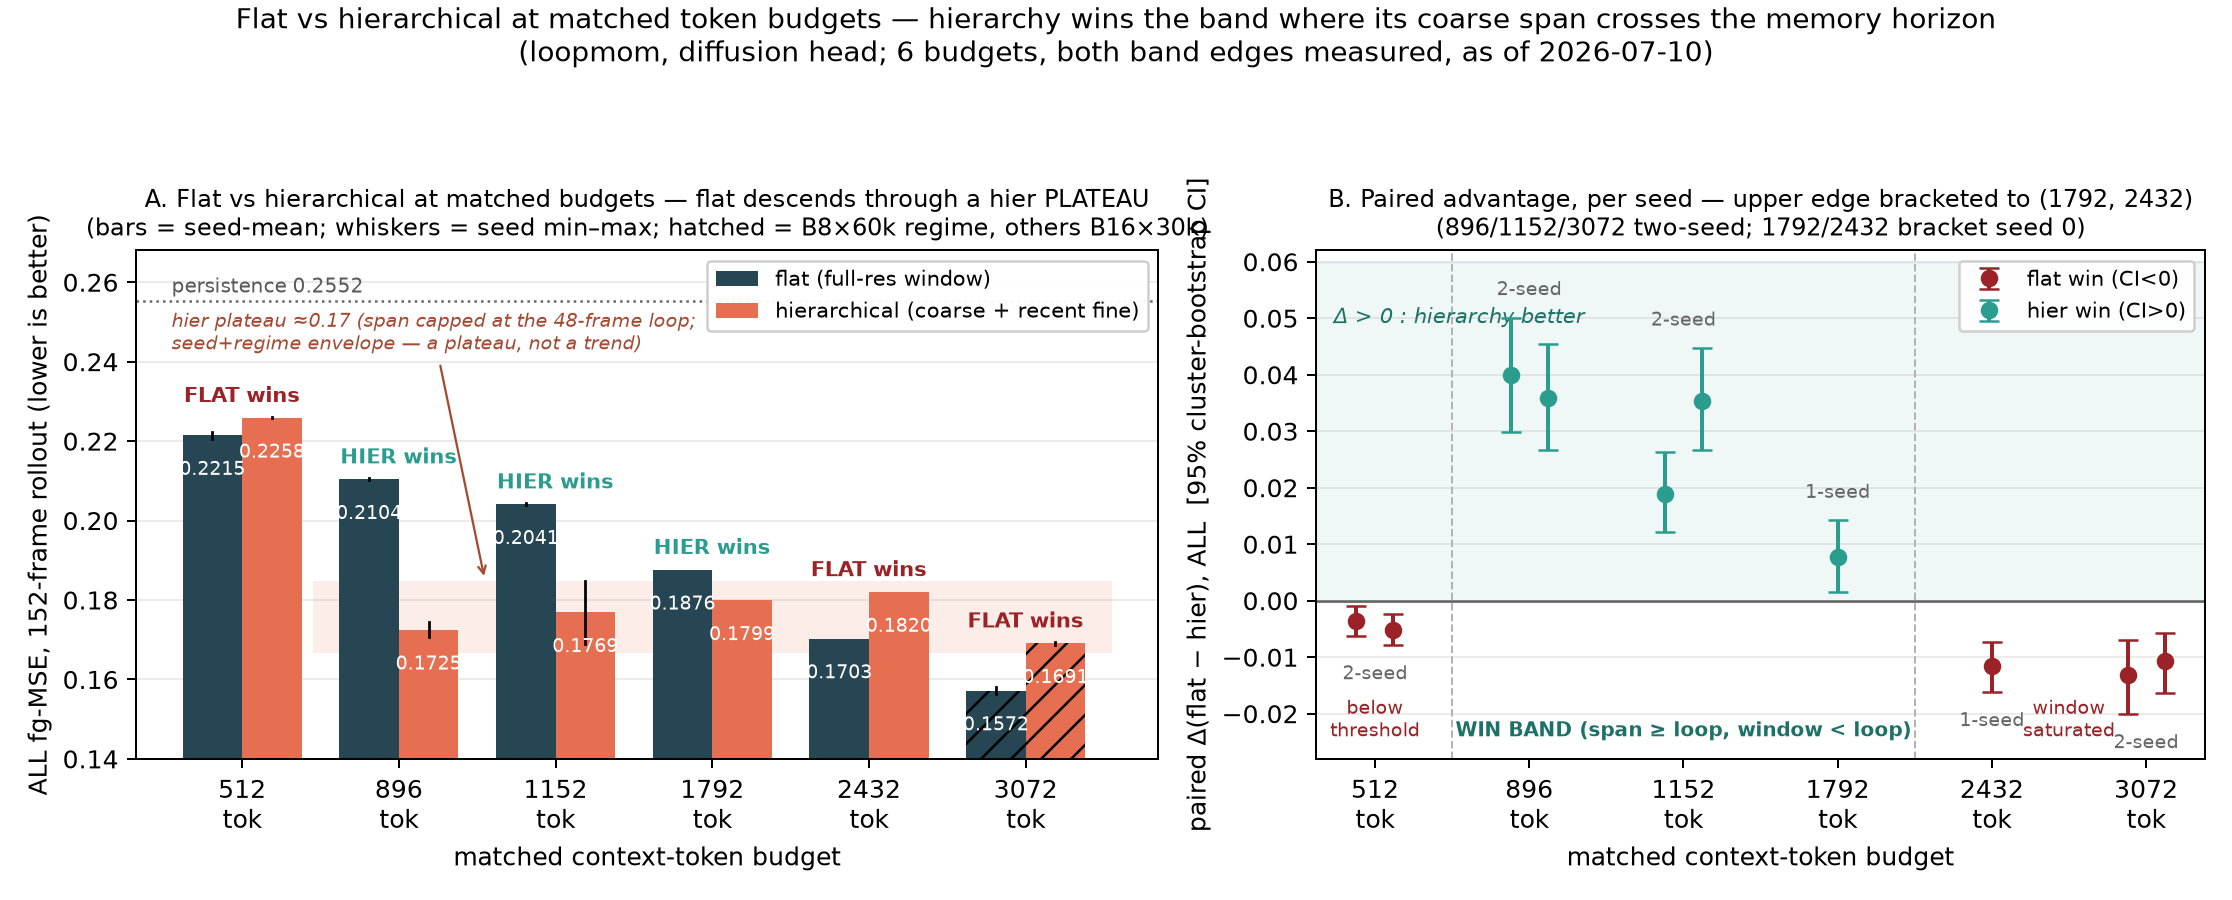
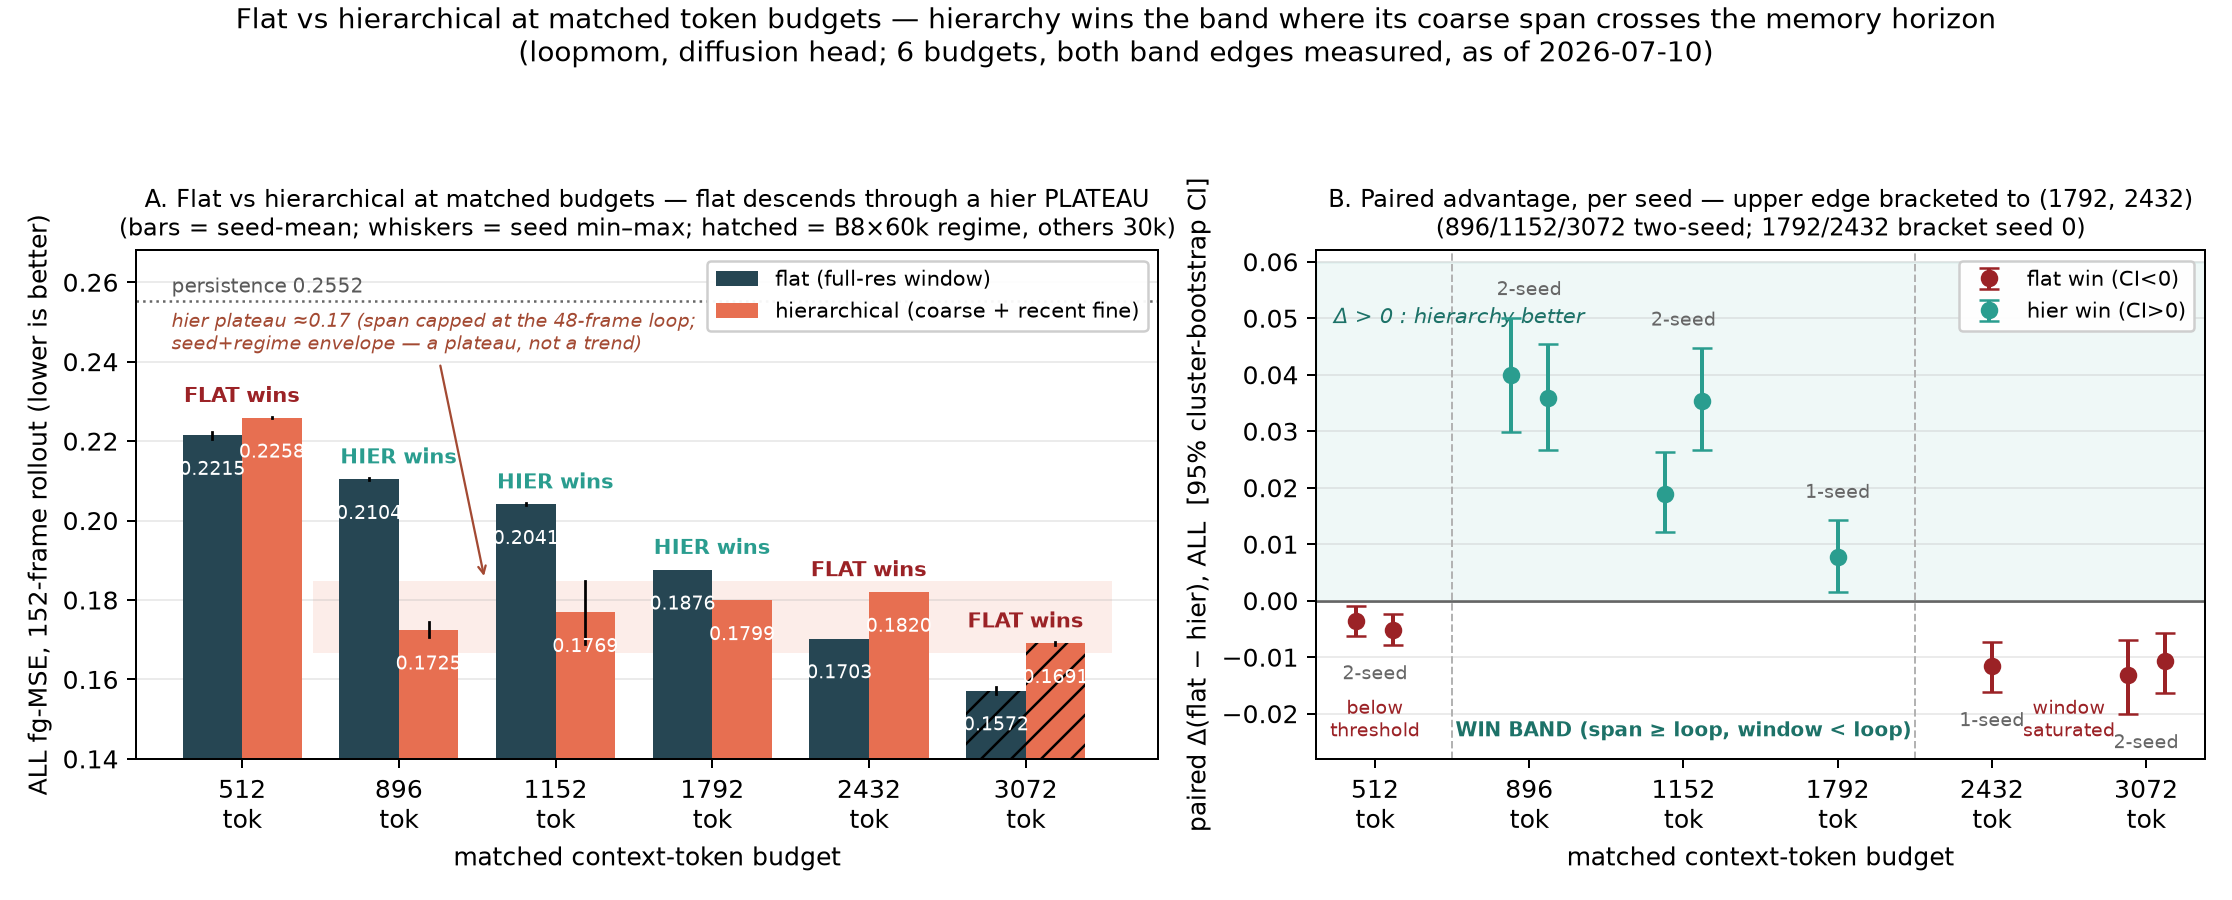
Re-review actions: blinding OOD caveat + B3 loss-dilution confound mirrored into CH4/ROZDIL4, B2 seed-asymmetry into CH4 branch text, CH1 outcome-neutral phrasing, canonical band notation [896,e) e in (1792,2432) (3 lint catches in CH4/ROZDIL4/VYSNOVKY), consistency lint added (numeric-invariant lay

Changed region(s): [[0.0309, 0.2178, 0.5255, 0.28]]

diff --git a/scripts/check_text_consistency.py b/scripts/check_text_consistency.py
@@ -1,0 +1,79 @@
+"""Text-consistency lint for the article + dissertation drafts (CPU, seconds).
+
+Run before committing any docs/draft or docs/dissertation change:
+    venv/Scripts/python.exe scripts/check_text_consistency.py
+
+Checks (extend the lists as claims evolve — this is the systematic fix for the class of drift
+that produced three stale "four budgets" references after R-F/R-G, and it caught three more
+"band [896, ~2,000)" remnants on its first run):
+  1. STALE phrases that contradict the current measured state.
+  2. [EXPECTED tag inventory per file (so the swap pass after each npz can tick them off).
+Exit code 1 on any STALE hit (safe to wire into a pre-commit hook).
+
+DESIGN NOTE (why there is no numeric-invariant check): a first version tried to enforce global
+constants (persistence, AE ceiling) and produced only false positives — those quantities are
+PROTOCOL-SCOPED (persistence 0.2367 at the k=4 single-step offset vs 0.2552 over the 152-frame
+rollout; AE ceilings differ per dataset/metric). Phrase-level linting is the reliable layer;
+numbers must be verified against npz, not against each other.
+"""
+import glob
+import os
+import re
+import sys
+
+sys.stdout.reconfigure(encoding="utf-8")  # Windows cp1252 console vs Unicode in tag text
+
+ROOT = os.path.join(os.path.dirname(__file__), "..")
+FILES = (glob.glob(os.path.join(ROOT, "docs", "draft", "CH*.md"))
+         + glob.glob(os.path.join(ROOT, "docs", "dissertation", "rewrite", "*.md")))
+
+# ---- 1. stale phrases (regex, case-insensitive) with the reason they are wrong NOW ----
+STALE = [
+    (r"four matched budgets|FOUR matched|at four budgets",
+     "frontier is SIX budgets since R-F/R-G (2026-07-10)"),
+    (r"2,?059\s*(tok|tokens)?\s*\(?interp",
+     "the interpolated-2059 hedge is retired: upper edge measured-bracketed to (1792, 2432)"),
+    (r"upper (crossing|edge) interpolated",
+     "upper edge is measured-bracketed since R-G"),
+    (r"single[- ]seed at 512|512 \(seed 0\)",
+     "512 is two-seed since R-E"),
+    (r"was not re-imported into operating point A",
+     "the temporal-only corner IS measured at point A by B2 (strided-flat)"),
+    (r"band \[896, ?[≈~]?2,?0\d\d\)",
+     "band upper edge is now the measured bracket (1792, 2432), not a point estimate"),
+]
+
+fail = False
+print("== 1. stale phrases ==")
+for path in FILES:
+    with open(path, encoding="utf-8") as f:
+        text = f.read()
+    rel = os.path.relpath(path, ROOT)
+    for pat, why in STALE:
+        for m in re.finditer(pat, text, re.IGNORECASE):
+            line = text[:m.start()].count("\n") + 1
+            # allow explicitly historical/plan mentions
+            ctx = text[max(0, m.start() - 200):m.start()]
+            if any(k in ctx for k in ("PLAN", "was ", "history", "retired", "superseded",
+                                       "AMENDMENT", "stale")):
+                continue
+            print(f"  STALE {rel}:{line}: '{m.group(0)}' -> {why}")
+            fail = True
+if not fail:
+    print("  (none)")
+
+print("== 2. [EXPECTED inventory ==")
+total = 0
+for path in FILES:
+    with open(path, encoding="utf-8") as f:
+        text = f.read()
+    tags = re.findall(r"\[EXPECTED[^:\]]*", text)
+    if tags:
+        rel = os.path.relpath(path, ROOT)
+        from collections import Counter
+        c = Counter(t.strip("[ ") for t in tags)
+        print(f"  {rel}: {sum(c.values())} — " + ", ".join(f"{k}×{v}" for k, v in sorted(c.items())))
+        total += sum(c.values())
+print(f"  total pending: {total}")
+
+sys.exit(1 if fail else 0)

diff --git a/scripts/make_fig10_flat_vs_hier.py b/scripts/make_fig10_flat_vs_hier.py
@@ -81,7 +81,7 @@ ax[0].set_xlabel("matched context-token budget")
 ax[0].set_ylim(0.14, 0.268)
 ax[0].set_title("A. Flat vs hierarchical at matched budgets — flat descends through a hier "
                 "PLATEAU\n(bars = seed-mean; whiskers = seed min–max; hatched = B8×60k regime, "
-                "others B16×30k)", fontsize=9.5)
+                "others 30k)", fontsize=9.5)
 ax[0].legend(loc="upper right", fontsize=8.5, framealpha=0.95)
 ax[0].grid(axis="y", alpha=0.25)
 

diff --git a/docs/draft/CH4_RESULTS.md b/docs/draft/CH4_RESULTS.md
@@ -417,9 +417,12 @@ currency; the coarse level is the cheapest **per-level-decodable** implementatio
 context, and the only one that keeps dense temporal coverage — but temporal subsampling of
 full-resolution history reproduces the matched-budget win." On this branch the Claim-1 wording
 softens from "hierarchical packaging" to "long-span context packaging" at the four sites listed
-in the change plan. ALTERNATIVE: hier-long beats strided-flat CI-clean — the coarse level's dense
-coverage carries value beyond span (inter-anchor blindness is costly even on a smooth pan), and
-this control becomes Claim 1's strongest defense; wording stands.]
+in the change plan — the softening is conservative and permitted at seed 0, but the POSITIVE
+assertion ("temporal subsampling reproduces the win; span is the currency") stays report-only
+until a seed-1 replication, because memory-arm seed spread (~0.016) can manufacture a one-seed
+null (pre-registered amendment). ALTERNATIVE: hier-long beats strided-flat CI-clean — the coarse
+level's dense coverage carries value beyond span (inter-anchor blindness is costly even on a
+smooth pan), and this control becomes Claim 1's strongest defense; wording stands.]
 
 ### 4.4.4 What each level stores: blinding probes
 
@@ -431,7 +434,12 @@ and read which error bins collapse. [EXPECTED: blinding the coarse stream of hie
 specifically the dt ≤ 48 retrieval bins — ALL rising toward the flat-budget level ≈0.20+ — while
 blinding the fine stream costs mainly h1–8 detail and sharpness, leaving long-horizon retrieval
 largely intact. That double dissociation is the mechanism claim of §4.3 made causal at the level
-of streams.] Report-only; no claim gates on it.
+of streams.] Report-only; no claim gates on it. One caveat is binding on interpretation: a zeroed
+stream is an out-of-distribution input (never seen in training), so the collapse magnitude is a
+*lower bound on the stream's contribution confounded with an upper bound on OOD brittleness* —
+the probe licenses "stream removed → capability lost," not a precise information accounting.
+(A less-OOD variant — freezing the last slot instead of zeroing — is noted as optional
+follow-up.)
 
 [FIG ch4-6: level-blinding curves — fg-MSE vs horizon for hier-long unblinded / blind-coarse /
 blind-fine, with a dt≤48-HARD inset; hier3 blind-top added if informative. Asset:
@@ -458,9 +466,11 @@ hier-long within the seed spread 0.016 → NULL. Text on confirmation: "a third 
 single-scale task can only re-allocate, not extend: depth must match the data's memory-scale
 count — consistent with the per-pixel gate null, the operating-point-B boundary, and CW-VAE's own
 observation that a two-level model sufficed for their maze dataset." ALTERNATIVE (win): a real
-re-allocation benefit; escalate to seed 1 before any wording lands. ALTERNATIVE (loss): the
-fixed-step context-length cost dominates (§4.3.6 regime disclosure); reported as the depth cost
-at fixed budget.]
+re-allocation benefit; escalate to seed 1 before any wording lands. ALTERNATIVE (loss): two
+disclosed mechanisms, not one — the fixed-step context-length cost (§4.3.6 regime disclosure)
+AND loss-weight dilution: the three-level loss sums three per-level terms, so hier3's effective
+fine-level weight is ~2/3 of the two-level arms' while every metric decodes the fine latents;
+a small loss is therefore NOT reported as "depth hurts" without a weight-matched follow-up.]
 
 [FIG ch4-7: degradation curves — fg-MSE growth and sharpness retention over the 152-frame rollout
 for all grid configurations + persistence floor + AE ceiling ("how long each shape keeps its
@@ -747,7 +757,7 @@ sharp 0.0996 (3,072 tok; B8×60k); hier-short 0.2260 / 0.0392 (480 tok) — both
 [FIG `docs/figures/fig9_frontier.png`: quality-vs-token-budget (log-x), two measured 4-point
 curves — hier (480 → 896 → 1152 → 3072: 0.2260, **0.1706**, 0.1848, 0.1695) and flat
 (512 → 896 → 1152 → 3072: 0.2224, 0.2106, 0.2038, 0.1564) — measured shape: hierarchy wins the
-band [896, ~2,000) tokens (upper edge measured to lie in (1,792, 2,432); see §4.3.6 bracket), with the effect PEAKING
+band [896, e) tokens with the upper edge e measured to lie in (1,792, 2,432) (§4.3.6 bracket), with the effect PEAKING
 at the lower edge, which sits exactly at the geometric span-threshold prediction (48×16 coarse
 tokens + minimal fine tail ≈ 830–896); flat wins below the threshold (512) and at window
 saturation (3072). Caption: the token-budget frontier — hierarchy wins exactly the band where

diff --git a/docs/dissertation/rewrite/05_ROZDIL4.md b/docs/dissertation/rewrite/05_ROZDIL4.md
@@ -718,9 +718,10 @@ the audited table register; final numbering at typeset). Measured anchor rows fr
 | ≈480–512 | flat-short | 0.2224 | hier-short | 0.2260 | **−0.0036 [−0.0063, −0.0010]** (flat wins) |
 
 **[FIG 4-x — token-budget frontier]**
-*Content:* ALL fg-MSE versus context-token budget at operating point A, one 4-point curve per
-family (flat: flat-short → flat-min → flat-budget → flat-long; hierarchical: hier-short →
-hier-min → hier-long → hier-rich), with the measured win band [896, ~2,000) shaded (upper edge bracketed to (1,792, 2,432)), the
+*Content:* ALL fg-MSE versus context-token budget at operating point A, one 6-point curve per
+family (flat: flat-short → flat-min → flat-budget → flat-c1 → flat-c2 → flat-long; hierarchical:
+hier-short → hier-min → hier-long → hier-c1 → hier-c2 → hier-rich), with the measured win band
+[896, e) shaded, e ∈ (1,792, 2,432) per the R-F/R-G bracket, the
 geometric span-threshold (48×16 tokens) drawn as the band's lower edge, and the persistence
 floor (0.2552) drawn.
 *Source:* **`docs/figures/fig9_frontier.png`** (measured; anchors from Tables 4.5/4.6 and the
@@ -897,7 +898,11 @@ Rerun the trained arm's full 152-frame rollout with one context stream **blinded
 standardized latent space) at every step. [EXPECTED: blinding the coarse stream collapses
 specifically the dt ≤ 48 retrieval bins (ALL → ≈0.20+, the flat-budget level); blinding the fine
 stream costs h 1–8 detail and sharpness, leaving long-horizon retrieval largely intact — the §4.3
-mechanism made causal at stream level.] Report-only. **[FIG 4-14 — PLACEHOLDER: blinding curves;
+mechanism made causal at stream level.] Report-only. Binding interpretation caveat (per the
+pre-registered amendment): a zeroed stream is an out-of-distribution input, so the collapse
+magnitude bounds the stream's contribution from below confounded with OOD brittleness from
+above — the probe licenses «потік вилучено → здатність втрачено», not a precise information
+accounting [UA-PASS]. **[FIG 4-14 — PLACEHOLDER: blinding curves;
 asset fig14_level_blinding.png, QUEUED (eval-only).]**
 
 ### 4.4.5 Зведена порівняльна таблиця: глибина, ядра, зібрана сітка
@@ -913,7 +918,10 @@ seed spread 0.016) → «глибина обмежена кількістю ма
 одномасштабній задачі лише перерозподіляє, а не розширює» [UA-PASS] — consistent with the
 per-pixel-gate null, the §4.5 boundary, and CW-VAE's own two-levels-sufficed observation.
 ALTERNATIVE (win): a real re-allocation benefit — escalate to seed 1 first. ALTERNATIVE (loss):
-the fixed-step context-length cost (§4.3.6 regime disclosure) dominates.] **[FIG 4-15 —
+two disclosed mechanisms — the fixed-step context-length cost (§4.3.6 regime disclosure) AND
+loss-weight dilution (the 3-level loss sums three per-level terms → the fine level, which all
+metrics decode, carries ~2/3 of its 2-level weight); a small loss is NOT reported as «глибина
+шкодить» without a weight-matched follow-up.] **[FIG 4-15 —
 PLACEHOLDER: degradation curves over the 152-frame rollout for all grid configurations
 («скільки кожна форма утримує метрику»); asset fig12_cwstyle_curves.png, EXISTS — regenerate
 after Phase B.]**

diff --git a/docs/draft/CH1_INTRO.md b/docs/draft/CH1_INTRO.md
@@ -88,8 +88,8 @@ negatives (Ch. 3, Ch. 6) that scope it.
    The hierarchy wins exactly the band where its coarse span covers the ~48-frame loop and the
    flat window does not — the band's lower edge lands at the geometric prediction (48×16 coarse
    tokens), its upper edge is bracketed by measurement to (1,792, 2,432) — and inverts outside
-   the band. The band is then generalized across hierarchy *shapes* (§4.4): spatial and temporal
-   abstraction, depth, and allocation as budget-matched families. A second
+   the band. The frontier question is then posed across hierarchy *shapes* (§4.4): spatial and
+   temporal abstraction, depth, and allocation, compared as budget-matched families. A second
    operating point with a ~213-frame loop bounds the mechanism from above: single-step retrieval
    over slot memory is real and span-threshold-gated, but does not survive pure self-feeding at
    this scale (the trustworthy-memory boundary).

diff --git a/docs/dissertation/rewrite/06_VYSNOVKY.md b/docs/dissertation/rewrite/06_VYSNOVKY.md
@@ -248,6 +248,6 @@ present results: they extend the measured boundary, which is stated exactly.
 - Result 7's generalization sentence is dual-branch by construction: the [EXPECTED] and
   [FALLBACK] markers must be resolved (or the sentence softened to "planned") before defense,
   in sync with §§4.6.3–4.6.7 of `05_ROZDIL4.md`. The frontier clause is RESOLVED (measured
-  2026-07-07, in sync with §4.3.6): inversion at both ends; win band [896, ~2,000) with BOTH
-  edges measured — lower edge 896 two-seed (R-A), upper edge bracketed to (1,792, 2,432) by
+  2026-07-07, in sync with §4.3.6): inversion at both ends; win band [896, e) with BOTH
+  edges measured — lower edge 896 two-seed (R-A), upper edge e bracketed to (1,792, 2,432) by
   R-F/R-G (2026-07-09/10); peak at the lower edge — edge-measured band wording.
